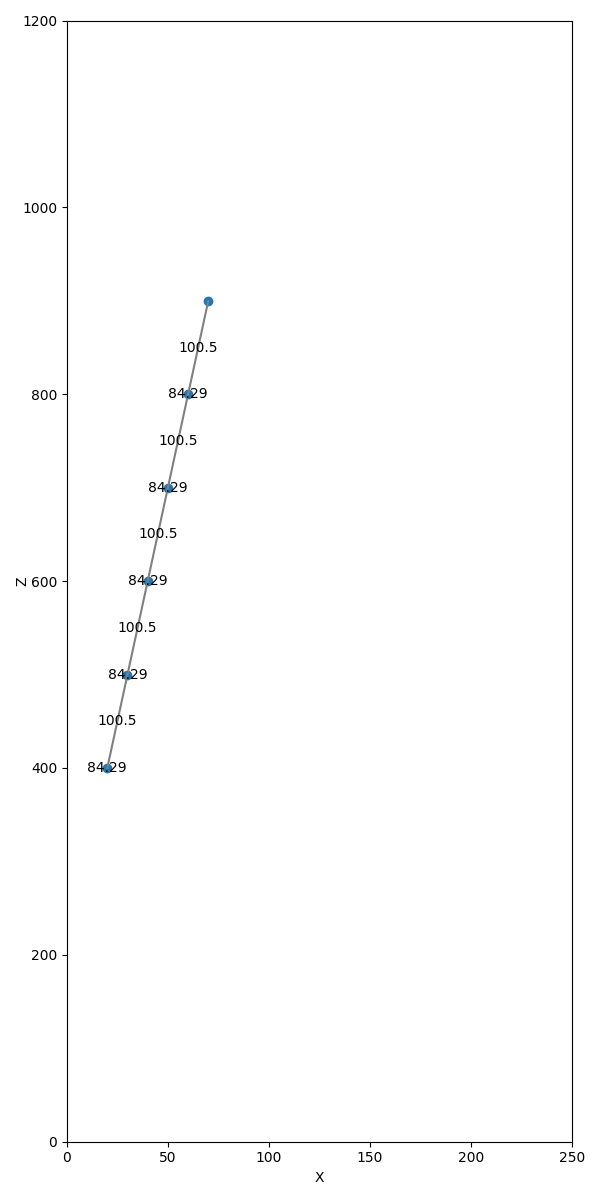
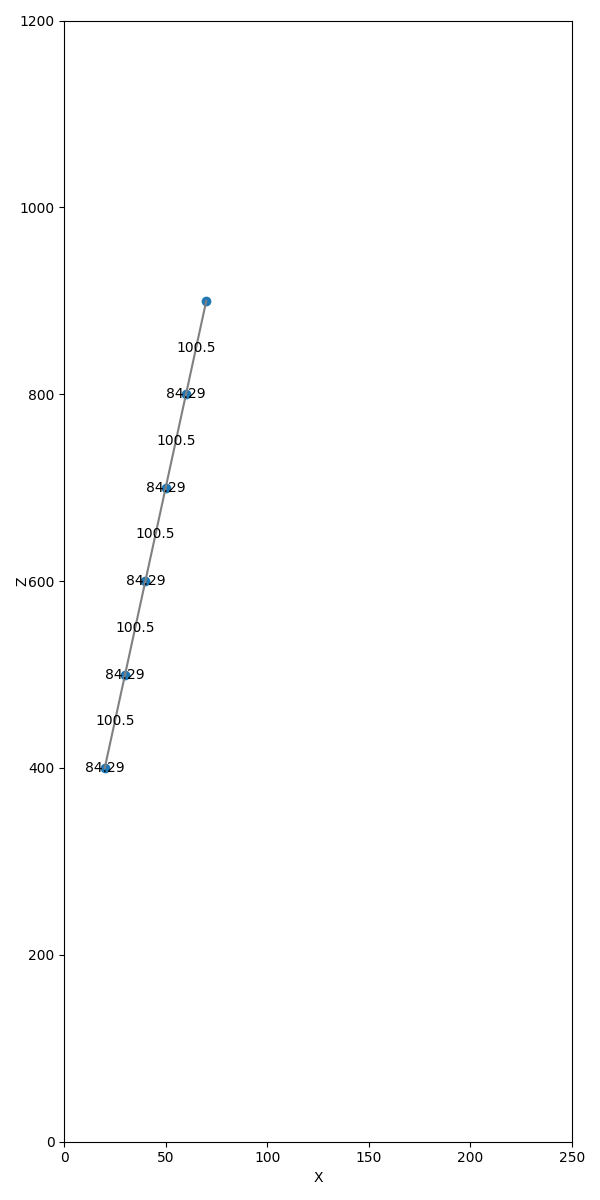
changed padding on one thing

diff --git a/main.py b/main.py
@@ -204,7 +204,7 @@ def plotPoints2d(pointsx, pointsy, window, saveAs, xlabel):
         ax.set_xlim([-60, 60])
 
     ax.set_ylim([0, 1200])
-    ax.set_ylabel('Z', labelpad=-5)
+    ax.set_ylabel('Z', labelpad=-7)
     ax.set_xlabel(xlabel)
 
     # Show distances between points
